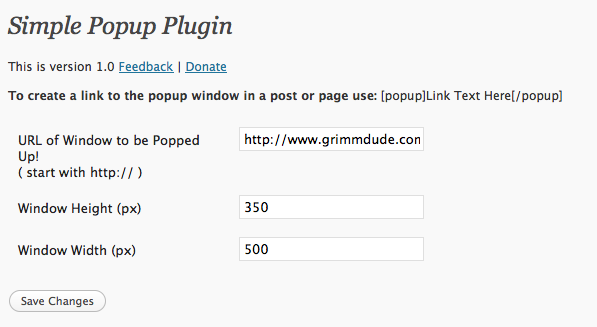
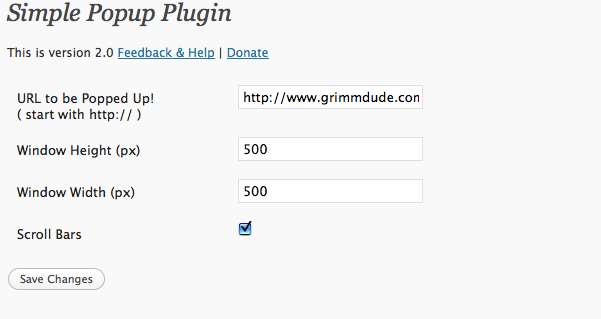
git-svn-id: https://plugins.svn.wordpress.org/simple-popup-plugin/trunk@96874 b8457f37-d9ea-0310-8a92-e5e31aec5664

diff --git a/simple_popup_plugin.php b/simple_popup_plugin.php
@@ -2,8 +2,8 @@
 /*
 Plugin Name: Simple Popup Plugin
 Plugin URI: http://www.grimmdude.com/wordpress-simple-popup-plugin
-Description: This plugin makes it easy to create a simple, modifiable popup window.
-Version: 1.0
+Description: This plugin makes it easy to create a simple, modifiable popup window.  Version 2.0 includes a scrollbar option, template tag, and widget for your popup pleasure.
+Version: 2.0
 Author: Garrett Grimm
 Author URI: http://www.grimmdude.com
 */
@@ -27,17 +27,17 @@ Author URI: http://www.grimmdude.com
 */
 ?>
 <?php
-
 //Javascript to be placed in header.php
+
 
 function popup_plugin_script(){
     echo "
     
-    <!--Simple Popup Plugin-->
+    <!--Simple Popup Plugin v2-->
 <script language=\"javascript\" type=\"text/javascript\">
 <!--
 function popitup(url) {
-	newwindow=window.open(url,'name','height="; echo get_option('popup_window_height'); echo ",width="; echo get_option('popup_window_width'); echo ",location=0');
+	newwindow=window.open(url,'name','height="; echo get_option('popup_window_height'); echo ",width="; echo get_option('popup_window_width'); echo ",location=0"; call_scrollbar(); echo "');
 	if (window.focus) {newwindow.focus()}
 	return false;
 }
@@ -48,12 +48,10 @@ function popitup(url) {
 
 ";
 }
-?>
-<?php
+
 //inserts script in head of document
 add_action ( 'wp_head', 'popup_plugin_script' );
-?>
-<?php
+
 //Options page
 add_action('admin_menu', 'simple_popup_menu');
 
@@ -65,16 +63,112 @@ function simple_popup_options() {
     include 'simple_popup_admin.php';
 }
 
-?>
-<?php
+
+//scrollbar call function
+function call_scrollbar() {
+$scrollbar=get_option('popup_scrollbar');
+if ( $scrollbar == 1 ) {
+	echo ",scrollbars=1";
+}
+echo "";
+}
+
 //defines shortcode
 add_shortcode('popup', 'popup_plugin_shortcode');
 
-//echo the get_option for the popup url
+//echo the popup url for shortcode
 function output_popup_url() {
 return get_option('popup_window_url');}
 
 function popup_plugin_shortcode( $atts, $content = null ) {
     return '<a onclick="return popitup(\''.output_popup_url().'\')" href="'.output_popup_url().'">' .$content. '</a>';}
+    
+//defines tag for theme templates
+function simple_popup_link($link_text) {
+
+$spptext = get_option("popup_widget_text");
+
+   echo "<a onclick=\"return popitup('"; echo get_option('popup_window_url'); echo "')\" href=\""; echo get_option('popup_window_url'); echo "\">"; echo $link_text; echo "</a>";}
+
+//widget content
+
+$spptext = get_option("popup_widget_text");
+function popup_widget_content(){
+echo "<ul><li><a onclick=\"return popitup('"; echo get_option('popup_window_url'); echo "')\" href=\""; echo get_option('popup_window_url'); echo "\">"; echo get_option('popup_widget_text'); echo "</a></li></ul>";
+}
+
+//function for widget
+function simple_popup_widget($args){
+extract($args);
+
+  $spptitle = get_option("popup_widget_title");
+  if (!is_array( $spptitle ))
+	{
+		$spptitle = array(
+      'title' => 'Simple Popup Plugin'
+      );
+  }      
+
+  echo $before_widget;
+    echo $before_title;
+      echo $spptitle['title'];
+    echo $after_title;
+    //Widget Content
+    popup_widget_content();
+  echo $after_widget;
+}
+
+//widget controls
+function simple_popup_widget_control(){ 
+
+$spptitle = get_option("popup_widget_title");
+$spptext = get_option("popup_widget_text");
+
+  if (!is_array( $spptitle ))
+	{
+		$spptitle = array(
+      'title' => 'Simple Popup Plugin'
+      );
+  }      
+//widget title option
+  if ($_POST['popup_widget_title-Submit'])
+  {
+    $spptitle['title'] = htmlspecialchars($_POST['popup_widget_title-WidgetTitle']);
+
+    update_option("popup_widget_title", $spptitle);
+    
+  }
+  
+  
+//linktext option
+ if ($_POST['popup_widget_text-Submit'])
+  {
+    $spptext = htmlspecialchars($_POST['popup_widget_text']);
+
+    update_option("popup_widget_text", $spptext);
+  }
+//options form
+?>
+  <p>
+    <label for="spptitle-WidgetTitle">Title:</label>
+    <input type="text" id="popup_widget_title-WidgetTitle" class="widefat" name="popup_widget_title-WidgetTitle" value="<?php echo $spptitle['title'];?>" />
+    <input type="hidden" id="popup_widget_title-Submit" name="popup_widget_title-Submit" value="1" />
+  </p>
+ <p>
+    <label for="popuplinktext">Popup Link Text:</label>
+    <input type="text" id="popup_widget_text" class="widefat" name="popup_widget_text" value="<?php echo $spptext;?>" />
+    <input type="hidden" id="popup_widget_text-Submit" name="popup_widget_text-Submit" value="1" />
+  </p>
+<?php
+
+}
+//function to register widget and controls
+function simple_popup_widget_init(){
+    register_sidebar_widget(__('Simple Popup Plugin'), 'simple_popup_widget');
+    register_widget_control(   'Simple Popup Plugin', 'simple_popup_widget_control', 300, 200 );
+}
+
+
+add_action("widgets_init", "simple_popup_widget_init");
 
 ?>

diff --git a/simple_popup_admin.php b/simple_popup_admin.php
@@ -1,9 +1,8 @@
 <div class="wrap">
 <h2>Simple Popup Plugin</h2>
-<p>This is version 1.0 <a href="http://www.grimmdude.com/wordpress-simple-popup-plugin" title="Feedback" target="_blank">Feedback</a> |  
+<p>This is version 2.0 <a href="http://www.grimmdude.com/wordpress-simple-popup-plugin" title="Feedback & Help" target="_blank">Feedback & Help</a> |  
 <a href="https://www.paypal.com/cgi-bin/webscr?cmd=_s-xclick&hosted_button_id=2847328" title="Donate" target="_blank">Donate</a>
 </p>
-<p><b>To create a link to the popup window in a post or page use:</b> [popup]Link Text Here[/popup]</p>
 
 <form method="post" action="options.php">
 <?php wp_nonce_field('update-options'); ?>
@@ -11,24 +10,29 @@
 <table class="form-table">
 
 <tr valign="top">
-<th scope="row">URL of Window to be Popped Up!<br /> ( start with http:// )</th>
+<th scope="row">URL to be Popped Up!:<br /> ( start with http:// )</th>
 <td><input type="text" name="popup_window_url" value="<?php echo get_option('popup_window_url'); ?>" /></td>
 </tr>
 
 <tr valign="top">
-<th scope="row">Window Height (px)</th>
+<th scope="row">Window Height (px):</th>
 <td><input type="text" name="popup_window_height" value="<?php echo get_option('popup_window_height'); ?>" /></td>
 </tr>
  
 <tr valign="top">
-<th scope="row">Window Width (px)</th>
+<th scope="row">Window Width (px):</th>
 <td><input type="text" name="popup_window_width" value="<?php echo get_option('popup_window_width'); ?>" /></td>
+</tr>
+
+<tr valign="top">
+<th scope="row">Scroll Bars:</th>
+<td><input name="popup_scrollbar" type="checkbox" id="popup_scrollbar" value="1" <?php checked('1', get_option('popup_scrollbar')); ?> /></td>
 </tr>
 
 </table>
 
 <input type="hidden" name="action" value="update" />
-<input type="hidden" name="page_options" value="popup_window_url,popup_window_height,popup_window_width" />
+<input type="hidden" name="page_options" value="popup_window_url,popup_window_height,popup_window_width,popup_scrollbar" />
 
 <p class="submit">
 <input type="submit" name="Submit" value="<?php _e('Save Changes') ?>" />
@@ -36,6 +40,11 @@
 
 </form>
 
+<h3>General Use</h3>
+<ul><li>To create a link to the popup in a post or page use: [popup]Link Text Here[/popup]</li>
+<li>To create a link to the popup in the footer, header, etc. use the template tag: <code>&lt;?php simple_popup_link("LINK TEXT HERE"); ?&gt;</code></li>
+<li><b>Don't forget about the <a href="<?php echo get_bloginfo( 'url'); ?>/wp-admin/widgets.php" title="Go to your widget page!">widget</a> included with this plugin for easy popup link creation in your sidebar!</b></li>
+</ul><br />
 <h3>Bands/Musicians</h3>
 <p>To use this plugin with the <a href="http://www.boriel.com/plugins/the-wordpress-xspf-player-plugin/" title="XSPF Player Plugin" target="_blank">XSPF Music Player plugin</a>:</p>
 <ol>
@@ -47,5 +56,7 @@ into your current theme's directory.<br />
 'XSPF Music Player Popup' from the template pulldown.</li>
 <li>3.  Type the newly created page's URL into the above field, adjust dimensions, and save changes.</li>
 </ol>
-
+<br />
+<p>
+<i>Written by <a href="http://www.grimmdude.com" title="Garrett Grimm" target="_blank">Garrett Grimm</a> in <a href="http://en.wikipedia.org/wiki/Shanghai" title="Shanghai, China" target="_blank">Shanghai, China</a>.
 </div>

diff --git a/XSPF_template.php b/XSPF_template.php
@@ -32,9 +32,7 @@ Template Name: XSPF Music Player Popup
 
 <?php wp_get_archives('type=monthly&format=link'); ?>
 
-<?php 
-//This displays the Simple Popup Plugin script
-popup_plugin_script(); ?>
+<?php wp_head(); ?>
 
 </head>
 <body>
